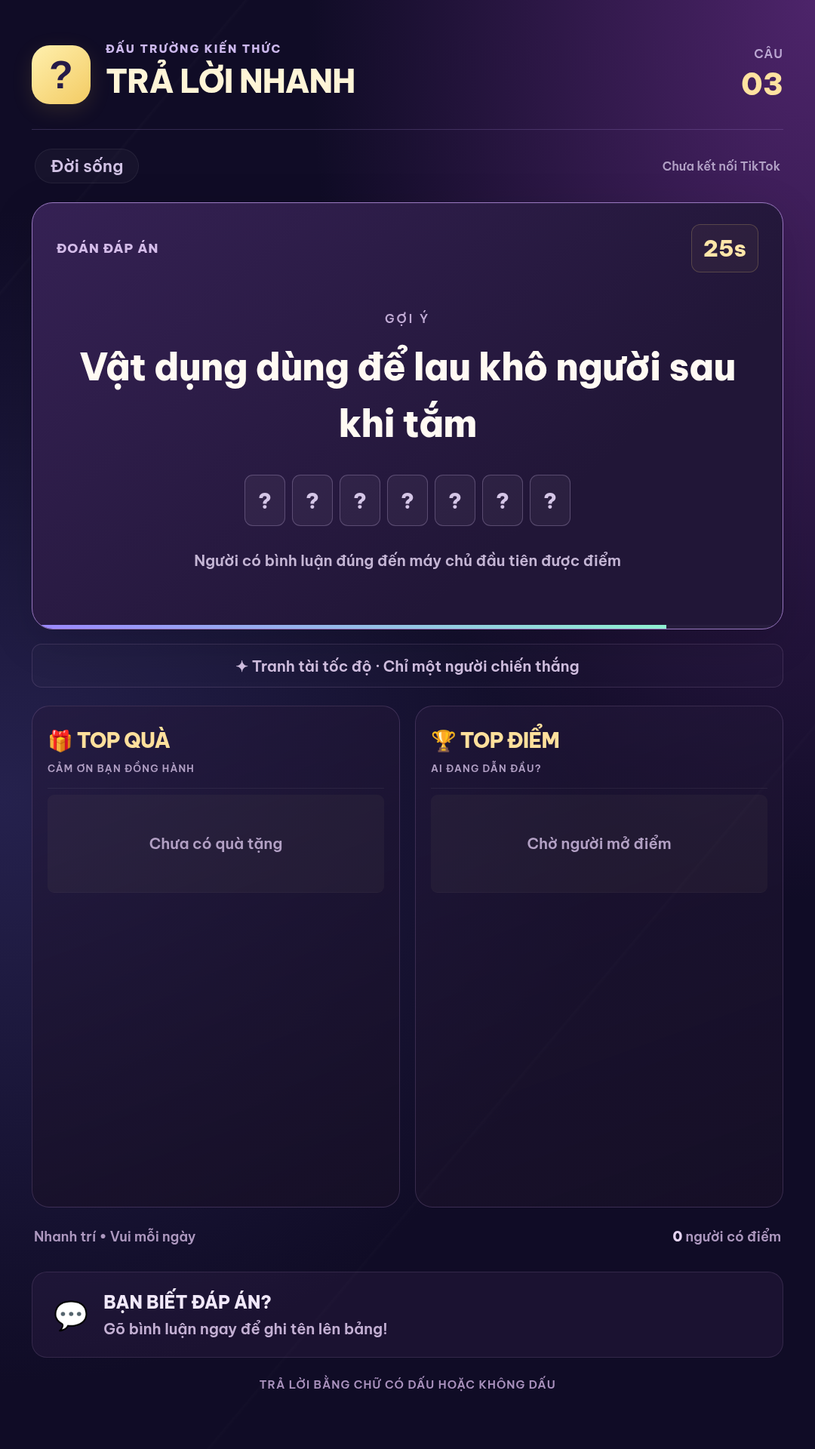
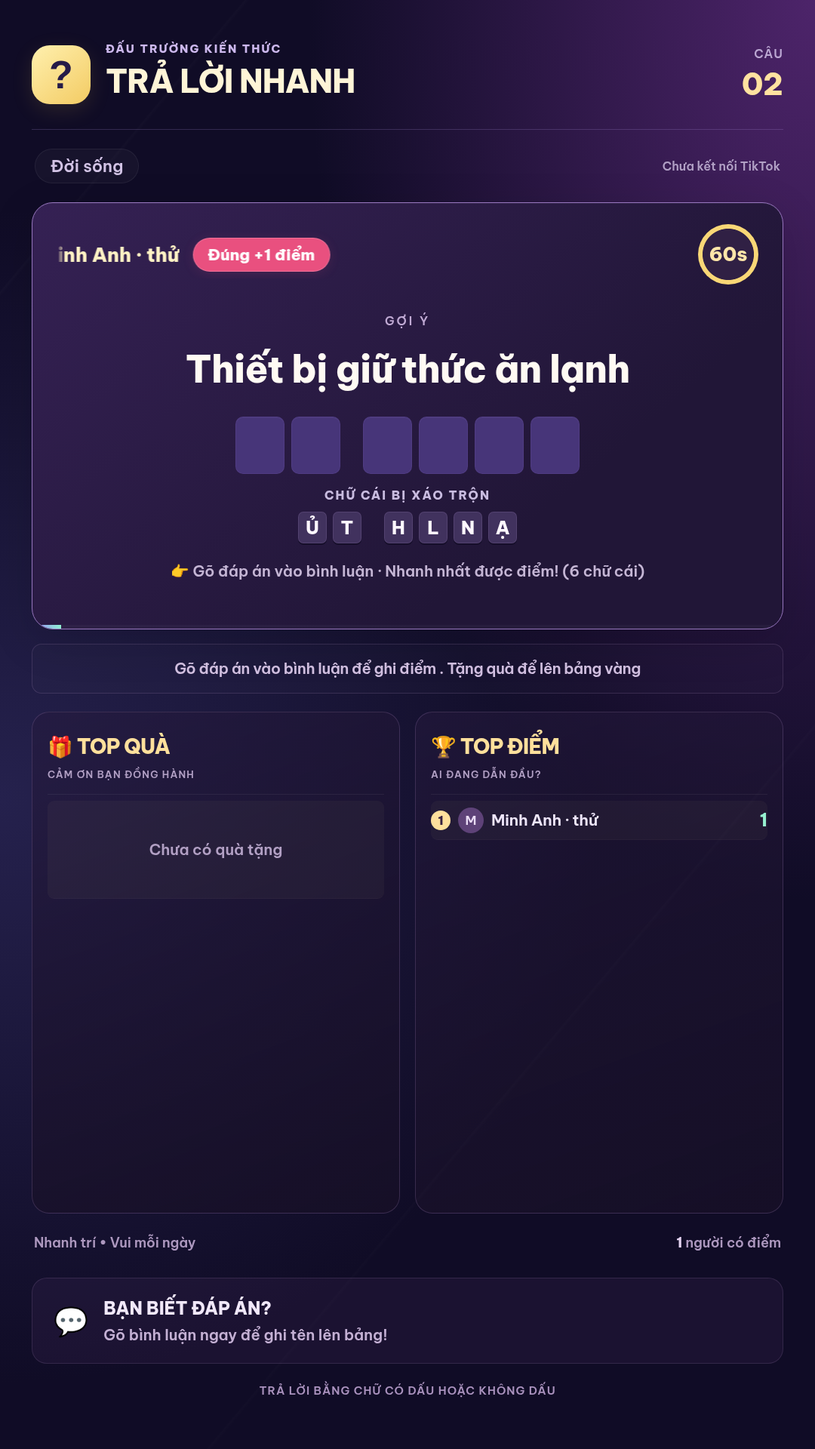
Add top leader marquee, countdown ring and Vietnamese winner announcements

diff --git a/public/index.html b/public/index.html
@@ -1,3 +1,3 @@
-<!doctype html><html lang="vi"><head><meta charset="utf-8"><meta name="viewport" content="width=device-width,initial-scale=1"><title>Studio · Trả lời nhanh LIVE</title><link rel="stylesheet" href="/style.css"></head><body class="studio"><aside class="sidebar"><div class="studio-brand"><span class="brand-mark">?</span><div>TRẢ LỜI NHANH<small>LIVE STUDIO</small></div></div><div class="nav-label">KHÔNG GIAN ĐIỀU KHIỂN</div><a href="#play" class="nav-item">◉ Điều khiển buổi chơi</a><a href="#bank" class="nav-item">▦ Thư viện câu hỏi</a><a href="#connect" class="nav-item">◎ Kết nối TikTok</a><a href="/overlay.html" target="_blank" class="nav-item">▣ Mở màn hình LIVE</a><div class="sidebar-bottom"><span class="local-dot"></span> Chạy trên máy của bạn<p>Top quà trái · Top điểm phải<br>Khổ dọc 1080 × 1920</p></div></aside><main class="studio-main"><header class="studio-header"><div><div class="eyebrow">SẴN SÀNG CHO MỘT BUỔI LIVE THẬT VUI</div><h1>Bảng điều khiển</h1><p>Chọn câu hỏi. Mở màn hình. Để khán giả tranh tài.</p></div><a class="button secondary" href="/overlay.html" target="_blank">Mở màn hình LIVE</a></header><div class="stats-grid"><div class="stat"><small>THƯ VIỆN CÂU HỎI</small><strong id="bankCount">—</strong><span id="categoryCount">Đang tải…</span></div><div class="stat"><small>CÂU ĐANG CHƠI</small><strong id="roundNumber">0</strong><span id="phaseText">Chưa bắt đầu</span></div><div class="stat"><small>BÌNH LUẬN ĐÃ NHẬN</small><strong id="comments">0</strong><span>Xử lý trực tiếp trên máy</span></div><div class="stat"><small>LƯỢT TRẢ LỜI ĐÚNG</small><strong id="accepted">0</strong><span id="players">0 người có điểm</span></div></div><div id="notice" class="notice" role="status">Đang kết nối máy chủ…</div><div class="workspace"><div class="panels"><section class="panel" id="play"><div class="panel-heading"><div><span class="eyebrow">ĐIỀU KHIỂN</span><h2>Nhịp chơi của bạn</h2></div><span class="badge" id="serverStatus">Đang kết nối</span></div><div class="current-question"><small id="currentCategory">CÂU HỎI HIỆN TẠI</small><h3 id="currentPrompt">Chọn bộ câu hỏi và bấm Bắt đầu</h3><div id="currentAnswer"></div></div><div class="actions"><button id="start" class="primary">Bắt đầu</button><button id="next" class="secondary">Câu tiếp</button><button id="pause" class="secondary">Tạm dừng</button><button id="reveal" class="secondary">Hiện đáp án</button><button id="stop" class="quiet">Dừng</button></div><form id="settingsForm"><div class="form-grid"><label>Tên chương trình<input name="title" maxlength="70" value="TRẢ LỜI NHANH"></label><label>Dòng phụ<input name="subtitle" maxlength="70" value="Nhanh trí • Vui mỗi ngày"></label><label>Bộ câu hỏi<select name="category" id="categorySelect"><option value="all">Tất cả bộ câu hỏi</option></select></label><label>Loại câu hỏi<select name="type" id="typeSelect"><option value="all">Tất cả loại</option></select></label><label>Thời gian mỗi câu (giây)<input name="duration" type="number" min="5" max="300" value="25"></label><label>Nghỉ giữa câu (giây)<input name="breakTime" type="number" min="1" max="20" value="3"></label><label>Cách tính điểm<select name="mode"><option value="first">Người đúng đầu tiên</option><option value="all">Mọi người đúng (chỉ thử ngoại tuyến)</option></select></label><label>Điểm mỗi câu<input name="points" type="number" min="1" max="100" value="1"></label></div><div class="form-bottom"><label class="check"><input name="auto" type="checkbox" checked>Tự chuyển câu</label><label class="check"><input name="sound" type="checkbox" checked>Âm báo đúng</label><button class="primary" type="submit">Lưu thiết lập</button></div><p class="muted">Chế độ, điểm và thời lượng mới áp dụng từ câu tiếp theo. Dấu tiếng Việt được nhận tự động.</p></form></section><section class="panel" id="connect"><div class="panel-heading"><div><span class="eyebrow">TƯƠNG TÁC THẬT</span><h2>Kết nối TikTok LIVE</h2></div><span id="tiktokStatus" class="badge">Chưa kết nối</span></div><p class="muted">Bạn tự phát LIVE trên TikTok trước, rồi nhập tên kênh. Không cần mật khẩu hoặc cookie.</p><div class="inline"><input id="username" placeholder="@tenkenh" autocomplete="off"><button id="connectBtn" class="primary">Kết nối</button><button id="disconnectBtn" class="secondary">Ngắt</button></div><div class="source-box"><small>NGUỒN LIÊN KẾT CHO LIVE STUDIO / OBS · 1080 × 1920</small><div class="inline"><code id="sourceUrl"></code><button id="copyUrl" class="secondary">Sao chép</button></div></div><p class="muted">Thư viện TikTok là bên thứ ba; kết nối có thể bị giới hạn khi TikTok thay đổi. Màn hình câu hỏi vẫn chạy khi mất kết nối.</p></section><section class="panel" id="bank"><div class="panel-heading"><div><span class="eyebrow">NỘI DUNG LUÔN MỚI</span><h2>Thư viện câu hỏi</h2></div><button id="exportBank" class="secondary">Tải bộ JSON</button></div><div id="bankChips" class="bank-chips"></div><p class="muted">Xáo trộn, dùng hết bộ mới lặp. Nhập bộ riêng tối đa 50.000 câu / 5 MB. File hợp lệ sẽ thay thư viện hiện tại, không xóa điểm.</p><label class="file-label">Chọn file JSON<input id="importBank" type="file" accept="application/json,.json"></label><details><summary>Xem cấu trúc câu hỏi</summary><pre>[{"id":"rieng-1","category":"Đố vui","type":"text",
+<!doctype html><html lang="vi"><head><meta charset="utf-8"><meta name="viewport" content="width=device-width,initial-scale=1"><title>Studio · Trả lời nhanh LIVE</title><link rel="stylesheet" href="/style.css"></head><body class="studio"><aside class="sidebar"><div class="studio-brand"><span class="brand-mark">?</span><div>TRẢ LỜI NHANH<small>LIVE STUDIO</small></div></div><div class="nav-label">KHÔNG GIAN ĐIỀU KHIỂN</div><a href="#play" class="nav-item">◉ Điều khiển buổi chơi</a><a href="#bank" class="nav-item">▦ Thư viện câu hỏi</a><a href="#connect" class="nav-item">◎ Kết nối TikTok</a><a href="/overlay.html" target="_blank" class="nav-item">▣ Mở màn hình LIVE</a><div class="sidebar-bottom"><span class="local-dot"></span> Chạy trên máy của bạn<p>Top quà trái · Top điểm phải<br>Khổ dọc 1080 × 1920</p></div></aside><main class="studio-main"><header class="studio-header"><div><div class="eyebrow">SẴN SÀNG CHO MỘT BUỔI LIVE THẬT VUI</div><h1>Bảng điều khiển</h1><p>Chọn câu hỏi. Mở màn hình. Để khán giả tranh tài.</p></div><a class="button secondary" href="/overlay.html" target="_blank">Mở màn hình LIVE</a></header><div class="stats-grid"><div class="stat"><small>THƯ VIỆN CÂU HỎI</small><strong id="bankCount">—</strong><span id="categoryCount">Đang tải…</span></div><div class="stat"><small>CÂU ĐANG CHƠI</small><strong id="roundNumber">0</strong><span id="phaseText">Chưa bắt đầu</span></div><div class="stat"><small>BÌNH LUẬN ĐÃ NHẬN</small><strong id="comments">0</strong><span>Xử lý trực tiếp trên máy</span></div><div class="stat"><small>LƯỢT TRẢ LỜI ĐÚNG</small><strong id="accepted">0</strong><span id="players">0 người có điểm</span></div></div><div id="notice" class="notice" role="status">Đang kết nối máy chủ…</div><div class="workspace"><div class="panels"><section class="panel" id="play"><div class="panel-heading"><div><span class="eyebrow">ĐIỀU KHIỂN</span><h2>Nhịp chơi của bạn</h2></div><span class="badge" id="serverStatus">Đang kết nối</span></div><div class="current-question"><small id="currentCategory">CÂU HỎI HIỆN TẠI</small><h3 id="currentPrompt">Chọn bộ câu hỏi và bấm Bắt đầu</h3><div id="currentAnswer"></div></div><div class="actions"><button id="start" class="primary">Bắt đầu</button><button id="next" class="secondary">Câu tiếp</button><button id="pause" class="secondary">Tạm dừng</button><button id="reveal" class="secondary">Hiện đáp án</button><button id="stop" class="quiet">Dừng</button></div><form id="settingsForm"><div class="form-grid"><label>Tên chương trình<input name="title" maxlength="70" value="TRẢ LỜI NHANH"></label><label>Dòng phụ<input name="subtitle" maxlength="70" value="Nhanh trí • Vui mỗi ngày"></label><label>Bộ câu hỏi<select name="category" id="categorySelect"><option value="all">Tất cả bộ câu hỏi</option></select></label><label>Loại câu hỏi<select name="type" id="typeSelect"><option value="all">Tất cả loại</option></select></label><label>Thời gian mỗi câu (giây)<input name="duration" type="number" min="5" max="300" value="25"></label><label>Nghỉ giữa câu (giây)<input name="breakTime" type="number" min="1" max="20" value="3"></label><label>Cách tính điểm<select name="mode"><option value="first">Người đúng đầu tiên</option><option value="all">Mọi người đúng (chỉ thử ngoại tuyến)</option></select></label><label>Điểm mỗi câu<input name="points" type="number" min="1" max="100" value="1"></label></div><div class="form-bottom"><label class="check"><input name="auto" type="checkbox" checked>Tự chuyển câu</label><label class="check"><input name="sound" type="checkbox" checked>Âm báo đúng</label><label class="check"><input name="speech" type="checkbox" checked>Đọc đáp án và người thắng</label><button class="primary" type="submit">Lưu thiết lập</button></div><p class="muted">Chế độ, điểm và thời lượng mới áp dụng từ câu tiếp theo. Dấu tiếng Việt được nhận tự động.</p></form></section><section class="panel" id="connect"><div class="panel-heading"><div><span class="eyebrow">TƯƠNG TÁC THẬT</span><h2>Kết nối TikTok LIVE</h2></div><span id="tiktokStatus" class="badge">Chưa kết nối</span></div><p class="muted">Bạn tự phát LIVE trên TikTok trước, rồi nhập tên kênh. Không cần mật khẩu hoặc cookie.</p><div class="inline"><input id="username" placeholder="@tenkenh" autocomplete="off"><button id="connectBtn" class="primary">Kết nối</button><button id="disconnectBtn" class="secondary">Ngắt</button></div><div class="source-box"><small>NGUỒN LIÊN KẾT CHO LIVE STUDIO / OBS · 1080 × 1920</small><div class="inline"><code id="sourceUrl"></code><button id="copyUrl" class="secondary">Sao chép</button></div></div><p class="muted">Thư viện TikTok là bên thứ ba; kết nối có thể bị giới hạn khi TikTok thay đổi. Màn hình câu hỏi vẫn chạy khi mất kết nối.</p></section><section class="panel" id="bank"><div class="panel-heading"><div><span class="eyebrow">NỘI DUNG LUÔN MỚI</span><h2>Thư viện câu hỏi</h2></div><button id="exportBank" class="secondary">Tải bộ JSON</button></div><div id="bankChips" class="bank-chips"></div><p class="muted">Xáo trộn, dùng hết bộ mới lặp. Nhập bộ riêng tối đa 50.000 câu / 5 MB. File hợp lệ sẽ thay thư viện hiện tại, không xóa điểm.</p><label class="file-label">Chọn file JSON<input id="importBank" type="file" accept="application/json,.json"></label><details><summary>Xem cấu trúc câu hỏi</summary><pre>[{"id":"rieng-1","category":"Đố vui","type":"text",
 "prompt":"Đồ vật dùng để ngồi?","answer":"Cái ghế",
 "aliases":["ghế"]}]</pre><p class="muted">Loại: text, scramble, choice, math, riddle, emoji. Trắc nghiệm thêm options gồm 4 đáp án, trong đó có answer.</p></details></section><section class="panel demo-panel"><div class="panel-heading"><div><span class="eyebrow">CHỈ DÙNG KHI CHƯA KẾT NỐI LIVE</span><h2>Thử bình luận & quà</h2></div></div><div class="form-grid"><label>Tên người thử<input id="demoName" value="Minh Anh" maxlength="60"></label><label>Câu trả lời<input id="demoAnswer" placeholder="Nhập đáp án"></label></div><div class="actions"><button id="sendDemo" class="secondary">Gửi thử đáp án</button><button id="correctDemo" class="primary">Thử đáp án đúng</button><button id="giftDemo" class="secondary">Thử quà 10 xu</button></div><p class="muted">Điểm của người thử không lưu khi khởi động lại. Không thể thử khi đang kết nối LIVE thật.</p><div class="danger-zone"><button id="resetBtn" class="danger">Xóa bảng điểm</button><span class="muted">Cần gõ XÓA để xác nhận.</span></div></section></div><aside class="preview-column"><div class="preview-heading"><span>XEM TRƯỚC TRỰC TIẾP</span><span>9:16</span></div><div class="preview-frame"><iframe title="Màn hình LIVE xem trước" src="/overlay.html?audio=0"></iframe></div><p class="muted">Bản xem trước tắt âm thanh. Mở màn hình LIVE riêng để bật tiếng.</p></aside></div></main><script src="/control.js" type="module"></script></body></html>

diff --git a/public/overlay.js b/public/overlay.js
@@ -1,9 +1,12 @@
+import {WinnerSpeaker,winnerText} from './speech.js';
 const $=id=>document.getElementById(id), labels={text:'ĐOÁN ĐÁP ÁN',scramble:'SẮP XẾP CHỮ',choice:'CHỌN A · B · C · D',math:'TÍNH NHANH',riddle:'ĐỐ VUI',emoji:'NHÌN EMOJI ĐOÁN TỪ'};
 let state=null,offset=0,roundKey='',boardKey='',lastEvent=0,retry=500,audio=null,received=false;
 function fit(){const scale=Math.min(innerWidth/1080,innerHeight/1920);$('stage').style.transform=`scale(${scale})`;$('stage').style.left=`${Math.max(0,(innerWidth-1080*scale)/2)}px`;}
 addEventListener('resize',fit);fit();
 const mute=new URLSearchParams(location.search).get('audio')==='0';
-if(!mute){const b=document.createElement('button');b.className='audio-enable';b.textContent='Bật âm báo';b.style.cssText='position:absolute;bottom:16px;right:42px;background:#33234b;color:#d8c4ed;z-index:3';$('stage').append(b);b.onclick=async()=>{try{audio=new AudioContext();await audio.resume();b.remove();}catch{}};}
+const speaker=new WinnerSpeaker({muted:mute,status:text=>{$('voiceStatus').textContent=text;}});
+let leaderKey='';
+if(!mute){const b=document.createElement('button');b.className='audio-enable';b.textContent='Bật âm thanh & giọng đọc';b.style.cssText='position:absolute;bottom:16px;right:42px;background:#33234b;color:#d8c4ed;z-index:3';$('stage').append(b);b.onclick=async()=>{speaker.enable();try{audio=new AudioContext();await audio.resume();}catch{}b.remove();};}
 function ding(){if(!audio||!state?.settings.sound||mute)return;const at=audio.currentTime;for(const [i,f]of [660,880,1100].entries()){const o=audio.createOscillator(),g=audio.createGain();o.type='sine';o.frequency.value=f;g.gain.setValueAtTime(0,at+i*.09);g.gain.linearRampToValueAtTime(.08,at+i*.09+.01);g.gain.exponentialRampToValueAtTime(.001,at+i*.09+.25);o.connect(g);g.connect(audio.destination);o.start(at+i*.09);o.stop(at+i*.09+.26);}}
 function portrait(parent,p,cls='avatar'){const a=document.createElement('span');a.className=cls;if(p?.avatar&&/^https:\/\//.test(p.avatar)){const img=document.createElement('img');img.src=p.avatar;img.referrerPolicy='no-referrer';img.onerror=()=>{img.remove();a.textContent=p.name?.[0]||'★';};a.append(img);}else a.textContent=p?.name?.[0]||'★';parent.append(a);return a;}
 function board(id,rows,key){const out=document.createDocumentFragment();if(!rows.length){const li=document.createElement('li');li.className='empty-board';li.textContent=key==='score'?'Chờ người mở điểm':'Chưa có quà tặng';out.append(li);}rows.forEach((p,i)=>{const li=document.createElement('li'),r=document.createElement('span'),n=document.createElement('span'),v=document.createElement('b');r.className='rank';r.textContent=i+1;li.append(r);portrait(li,p);n.className='player-name';n.textContent=p.name;v.className='player-value';v.textContent=Intl.NumberFormat('vi-VN').format(p[key]);li.append(n,v);out.append(li);});$(id).replaceChildren(out);}
@@ -33,9 +36,16 @@ function question(){const q=state.question;const key=JSON.stringify([state.round
 function render(s){const firstRender=!received;received=true;state=s;offset=s.serverTime-Date.now();$('liveTitle').textContent=s.settings.title;$('liveSubtitle').textContent=s.settings.subtitle;$('round').textContent=String(s.round).padStart(2,'0');$('category').textContent=s.question?.category||'Sẵn sàng chơi';$('playerCount').textContent=s.stats.players;
  $('connection').textContent=s.live.status==='connected'?`LIVE @${s.live.username}`:s.live.status==='connecting'?'Đang kết nối TikTok':'Chưa kết nối TikTok';question();
  const bk=JSON.stringify([s.topScores,s.topGifts]);if(bk!==boardKey){boardKey=bk;board('gifts',s.topGifts,'diamonds');board('scores',s.topScores,'score');}
- if(s.event&&s.event.id!==lastEvent){const initial=firstRender;lastEvent=s.event.id;$('ticker').textContent=`✓ ${s.event.name} trả lời đúng · +${s.event.points} điểm`;if(!initial){ding();celebrate();}}
- else if(!s.event)$('ticker').textContent=s.phase==='question'?`✦ ${(s.roundMode||s.settings.mode)==='all'?'Cùng trả lời · Mỗi người một lượt ghi điểm':'Tranh tài tốc độ · Chỉ một người chiến thắng'}`:'✦ Mỗi câu hỏi là một cơ hội tỏa sáng';
+ const leader=s.topScores[0],lk=leader?`${leader.id}:${leader.score}:${s.settings.points}`:'';
+ if(lk!==leaderKey){leaderKey=lk;$('leaderName').textContent=leader?leader.name:'';$('leaderBadge').textContent=`Đúng +${s.settings.points} điểm`;$('leaderBadge').classList.toggle('hidden',!leader);}
+ $('leaderTrack').classList.toggle('has-leader',!!leader);$('typeLabel').classList.toggle('hidden',!!leader);$('leaderTrack').classList.toggle('marquee-paused',s.paused||s.phase==='idle');
+ $('ticker').textContent='Gõ đáp án vào bình luận để ghi điểm . Tặng quà để lên bảng vàng';
+ if(s.event&&s.event.id!==lastEvent){lastEvent=s.event.id;if(!firstRender){ding();celebrate();}}
+ const w=s.winners[0];
+ if(s.phase==='reveal'&&w&&s.settings.speech){const key=`${s.round}:${w.id}`;if(firstRender)speaker.remember(key);else speaker.speak({key,round:s.round,text:winnerText(s.question.answer,w.name)});}
+ if(!s.settings.speech||s.phase==='idle'){speaker.stop();$('voiceStatus').textContent='';}
+
 }
 function connect(){const ws=new WebSocket(`${location.protocol==='https:'?'wss':'ws'}://${location.host}/ws`);ws.onopen=()=>retry=500;ws.onmessage=e=>{try{const s=JSON.parse(e.data);if(s.t==='state')render(s);}catch{}};ws.onclose=()=>{$('connection').textContent='Mất máy chủ · đang nối lại';setTimeout(connect,retry);retry=Math.min(10000,retry*1.7);};}connect();
-setInterval(()=>{if(!state)return;const now=Date.now()+offset;let left=0;if(state.phase==='question')left=state.paused?state.remaining:state.endsAt-now;else if(state.phase==='reveal'&&state.settings.auto)left=state.nextAt-now;$('timer').textContent=state.phase==='idle'?'—':state.paused?'Ⅱ':state.phase==='reveal'&&!state.settings.auto?'✓':`${Math.max(0,Math.ceil(left/1000))}s`;$('timeFill').style.width=`${Math.max(0,Math.min(100,left/((state.phase==='reveal'?state.settings.breakTime:state.settings.duration)*1000)*100))}%`;},100);
+setInterval(()=>{if(!state)return;const now=Date.now()+offset;let left=0;if(state.phase==='question')left=state.paused?state.remaining:state.endsAt-now;else if(state.phase==='reveal'&&state.settings.auto)left=state.nextAt-now;$('timer').textContent=state.phase==='idle'?'—':state.paused?'Ⅱ':state.phase==='reveal'&&!state.settings.auto?'✓':`${Math.max(0,Math.ceil(left/1000))}s`;$('nextQuestion').textContent=state.phase==='reveal'?(state.settings.auto?`Chuẩn bị câu mới trong ${Math.max(0,Math.ceil(left/1000))} giây…`:'Sẵn sàng · Chờ người điều khiển chuyển câu'):'';const fraction=Math.max(0,Math.min(1,left/((state.phase==='reveal'?state.settings.breakTime:state.settings.duration)*1000)));$('timer').style.setProperty('--progress',`${fraction*100}%`);$('timeFill').style.width=`${Math.max(0,Math.min(100,left/((state.phase==='reveal'?state.settings.breakTime:state.settings.duration)*1000)*100))}%`;},100);
 let animation=0;function celebrate(){if(animation||matchMedia('(prefers-reduced-motion: reduce)').matches)return;const c=$('confetti');c.width=1080;c.height=1920;const ctx=c.getContext('2d'),pieces=Array.from({length:75},()=>({x:Math.random()*1080,y:-Math.random()*500,v:5+Math.random()*7,color:['#f9d776','#9c83ff','#64ebbc','#ed5b95'][Math.floor(Math.random()*4)]}));let frames=0;function frame(){ctx.clearRect(0,0,1080,1920);for(const p of pieces){p.y+=p.v;p.x+=Math.sin(p.y/60);ctx.fillStyle=p.color;ctx.fillRect(p.x,p.y,7,13);}if(++frames<150)animation=requestAnimationFrame(frame);else{animation=0;ctx.clearRect(0,0,1080,1920);}}animation=requestAnimationFrame(frame);}

diff --git a/public/overlay.html b/public/overlay.html
@@ -1,1 +1,1 @@
-<!doctype html><html lang="vi"><head><meta charset="utf-8"><meta name="viewport" content="width=device-width,initial-scale=1"><title>Trả lời nhanh · LIVE</title><link rel="stylesheet" href="/style.css"></head><body class="overlay-page"><main id="stage" class="stage"><header class="live-header"><div class="brand-mark">?</div><div><div class="eyebrow">ĐẤU TRƯỜNG KIẾN THỨC</div><h1 id="liveTitle">TRẢ LỜI NHANH</h1></div><div class="round-label">CÂU <strong id="round">00</strong></div></header><div class="live-meta"><span id="category">Sẵn sàng chơi</span><span id="connection">Đang kết nối…</span></div><section class="question-card" id="questionCard"><div class="card-top"><span class="type-label" id="typeLabel">AI SẼ NHANH NHẤT?</span><span class="timer" id="timer">—</span></div><div id="questionView"><div class="question-kicker">GỢI Ý</div><h2 id="prompt">Sẵn sàng thử tài?</h2><div id="answerSlots" class="answer-slots" aria-label="Các ô đáp án trống"></div><div id="scrambleLabel" class="scramble-label hidden">CHỮ CÁI BỊ XÁO TRỘN</div><div id="letters" class="letters"></div><div id="options" class="options"></div><p id="answerHelp" class="answer-help">Bình luận ngay để ghi điểm</p></div><div id="winnerView" class="hidden"><div class="winner-badge">✦ NHANH NHẤT CÂU NÀY ✦</div><div id="winnerAvatar" class="winner-avatar">★</div><h2 id="winnerName"></h2><div class="solution">Đáp án: <strong id="solution"></strong></div><div class="score-chip" id="scoreChip"></div><p id="explanation"></p></div><div class="time-track"><div id="timeFill"></div></div></section><div id="ticker" class="ticker">✦ Mỗi câu hỏi là một cơ hội tỏa sáng</div><section class="boards"><article class="board gifts-board"><div class="board-title"><span>🎁 TOP QUÀ</span><small>CẢM ƠN BẠN ĐỒNG HÀNH</small></div><ol id="gifts"><li class="empty-board">Chưa có quà tặng</li></ol></article><article class="board scores-board"><div class="board-title"><span>🏆 TOP ĐIỂM</span><small>AI ĐANG DẪN ĐẦU?</small></div><ol id="scores"><li class="empty-board">Chờ người mở điểm</li></ol></article></section><footer class="live-footer"><span id="liveSubtitle">Nhanh trí • Vui mỗi ngày</span><span><b id="playerCount">0</b> người có điểm</span></footer><div class="join-note"><span class="chat-icon">💬</span><div><b>BẠN BIẾT ĐÁP ÁN?</b><p>Gõ bình luận ngay để ghi tên lên bảng!</p></div></div><div class="bottom-caption">TRẢ LỜI BẰNG CHỮ CÓ DẤU HOẶC KHÔNG DẤU</div><canvas id="confetti"></canvas></main><script src="/overlay.js" type="module"></script></body></html>
+<!doctype html><html lang="vi"><head><meta charset="utf-8"><meta name="viewport" content="width=device-width,initial-scale=1"><title>Trả lời nhanh · LIVE</title><link rel="stylesheet" href="/style.css"></head><body class="overlay-page"><main id="stage" class="stage"><header class="live-header"><div class="brand-mark">?</div><div><div class="eyebrow">ĐẤU TRƯỜNG KIẾN THỨC</div><h1 id="liveTitle">TRẢ LỜI NHANH</h1></div><div class="round-label">CÂU <strong id="round">00</strong></div></header><div class="live-meta"><span id="category">Sẵn sàng chơi</span><span id="connection">Đang kết nối…</span></div><section class="question-card" id="questionCard"><div class="card-top"><div class="leader-marquee"><div class="leader-track" id="leaderTrack"><span class="type-label" id="typeLabel">AI SẼ NHANH NHẤT?</span><span id="leaderName"></span><span id="leaderBadge" class="leader-badge hidden">Đúng +1 điểm</span></div></div><span class="timer" id="timer">—</span></div><div id="questionView"><div class="question-kicker">GỢI Ý</div><h2 id="prompt">Sẵn sàng thử tài?</h2><div id="answerSlots" class="answer-slots" aria-label="Các ô đáp án trống"></div><div id="scrambleLabel" class="scramble-label hidden">CHỮ CÁI BỊ XÁO TRỘN</div><div id="letters" class="letters"></div><div id="options" class="options"></div><p id="answerHelp" class="answer-help">Bình luận ngay để ghi điểm</p></div><div id="winnerView" class="hidden"><div class="winner-badge">✦ NHANH NHẤT CÂU NÀY ✦</div><div id="winnerAvatar" class="winner-avatar">★</div><h2 id="winnerName"></h2><div class="solution">Đáp án: <strong id="solution"></strong></div><div class="score-chip" id="scoreChip"></div><p id="explanation"></p><p id="nextQuestion" class="next-question"></p><p id="voiceStatus" class="voice-status" aria-live="polite"></p></div><div class="time-track"><div id="timeFill"></div></div></section><div id="ticker" class="ticker">Gõ đáp án vào bình luận để ghi điểm . Tặng quà để lên bảng vàng</div><section class="boards"><article class="board gifts-board"><div class="board-title"><span>🎁 TOP QUÀ</span><small>CẢM ƠN BẠN ĐỒNG HÀNH</small></div><ol id="gifts"><li class="empty-board">Chưa có quà tặng</li></ol></article><article class="board scores-board"><div class="board-title"><span>🏆 TOP ĐIỂM</span><small>AI ĐANG DẪN ĐẦU?</small></div><ol id="scores"><li class="empty-board">Chờ người mở điểm</li></ol></article></section><footer class="live-footer"><span id="liveSubtitle">Nhanh trí • Vui mỗi ngày</span><span><b id="playerCount">0</b> người có điểm</span></footer><div class="join-note"><span class="chat-icon">💬</span><div><b>BẠN BIẾT ĐÁP ÁN?</b><p>Gõ bình luận ngay để ghi tên lên bảng!</p></div></div><div class="bottom-caption">TRẢ LỜI BẰNG CHỮ CÓ DẤU HOẶC KHÔNG DẤU</div><canvas id="confetti"></canvas></main><script src="/overlay.js" type="module"></script></body></html>

diff --git a/public/speech.js b/public/speech.js
@@ -1,0 +1,19 @@
+export function winnerText(answer,name){const tidy=(s,n)=>String(s||'').normalize('NFC').replace(/[^\p{L}\p{N}\s.,-]/gu,' ').replace(/\s+/g,' ').trim().slice(0,n);return `Đáp án là ${tidy(answer,100)}. ${tidy(name,45)||'Người chơi'} trả lời đúng.`;}
+export class WinnerSpeaker {
+ constructor({synth=globalThis.speechSynthesis,Utterance=globalThis.SpeechSynthesisUtterance,fetcher=globalThis.fetch,makeAudio=()=>new Audio(),urlApi=globalThis.URL,status=()=>{},muted=false}={}){Object.assign(this,{synth,Utterance,fetcher,makeAudio,urlApi,status,muted});this.enabled=false;this.seen=new Set();this.seq=0;}
+ remember(key){this.seen.add(key);if(this.seen.size>50)this.seen.delete(this.seen.values().next().value);}
+ enable(){this.enabled=true;this.synth?.getVoices();}
+ stop(){this.seq++;this.abort?.abort();try{this.synth?.cancel();this.audio?.pause();}catch{}if(this.objectUrl)this.urlApi.revokeObjectURL(this.objectUrl);this.objectUrl=null;this.audio=null;}
+ async speak({key,text,round}){
+  if(this.muted||!this.enabled||this.seen.has(key))return;this.remember(key);this.stop();const seq=this.seq;
+  const voice=this.synth?.getVoices().find(v=>/^vi(?:-|_)/i.test(v.lang));
+  if(voice&&this.Utterance){const line=new this.Utterance(text);line.lang='vi-VN';line.voice=voice;line.rate=1.1;line.onend=()=>{if(seq===this.seq)this.status('');};line.onerror=()=>{if(seq===this.seq)this.remote(round,seq);};this.status('Đang đọc đáp án và người thắng…');try{this.synth.speak(line);}catch{await this.remote(round,seq);}return;}
+  await this.remote(round,seq);
+ }
+ async remote(round,seq){
+  const controller=new AbortController();this.abort=controller;const timer=setTimeout(()=>controller.abort(),5500);this.status('Đang chuẩn bị giọng đọc tiếng Việt…');
+  try{const r=await this.fetcher(`/api/winner-voice?round=${encodeURIComponent(round)}`,{signal:controller.signal});if(!r.ok)throw Error('Voice unavailable');const blob=await r.blob();if(seq!==this.seq)return;this.objectUrl=this.urlApi.createObjectURL(blob);const a=this.makeAudio();this.audio=a;a.src=this.objectUrl;a.onended=()=>{if(seq===this.seq){this.status('');this.urlApi.revokeObjectURL(this.objectUrl);this.objectUrl=null;}};a.onerror=()=>{if(seq===this.seq)this.status('Không phát được giọng đọc. Kiểm tra âm thanh nguồn LIVE.');};await a.play();if(seq===this.seq)this.status('Đang đọc đáp án và người thắng…');}
+  catch(e){if(seq===this.seq&&e.name!=='AbortError')this.status('Giọng đọc chưa sẵn sàng. Kiểm tra mạng hoặc cài giọng tiếng Việt trên máy.');else if(seq===this.seq)this.status('Giọng đọc phản hồi chậm. Kiểm tra kết nối mạng.');}
+  finally{clearTimeout(timer);}
+ }
+}

diff --git a/public/control.js b/public/control.js
@@ -11,7 +11,7 @@ function connect(){ws=new WebSocket(`${location.protocol==='https:'?'wss':'ws'}:
  if(m.t==='error')notice(m.error,true);if(m.t==='ok'){if(m.cmd==='settings')ackSettings=true;notice(m.cmd==='settings'?'Đã lưu thiết lập.':'Đã thực hiện.');}};}
 connect();$('sourceUrl').textContent=location.origin+'/overlay.html';$('copyUrl').onclick=async()=>{try{await navigator.clipboard.writeText($('sourceUrl').textContent);notice('Đã sao chép liên kết màn hình LIVE.');}catch{notice('Hãy sao chép liên kết hiển thị bên trên.');}};
 for(const cmd of ['start','next','pause','reveal','stop'])$(cmd).onclick=()=>send(cmd);
-form.onsubmit=e=>{e.preventDefault();const data=Object.fromEntries(new FormData(form));data.auto=form.elements.auto.checked;data.sound=form.elements.sound.checked;send('settings',{settings:data});};
+form.onsubmit=e=>{e.preventDefault();const data=Object.fromEntries(new FormData(form));data.auto=form.elements.auto.checked;data.sound=form.elements.sound.checked;data.speech=form.elements.speech.checked;send('settings',{settings:data});};
 $('connectBtn').onclick=()=>send('connect',{username:$('username').value});$('disconnectBtn').onclick=()=>send('disconnect');
 $('sendDemo').onclick=()=>send('simulate',{name:$('demoName').value,text:$('demoAnswer').value,round:state?.round});$('demoAnswer').onkeydown=e=>{if(e.key==='Enter')$('sendDemo').click();};$('correctDemo').onclick=()=>send('demoCorrect',{name:$('demoName').value,round:state?.round});$('giftDemo').onclick=()=>send('demoGift',{name:$('demoName').value,diamonds:10});
 $('resetBtn').onclick=()=>{const confirm=prompt('Xóa toàn bộ điểm và Top quà? Gõ XÓA để xác nhận.');if(confirm==='XÓA')send('reset',{confirm});};

diff --git a/public/style.css b/public/style.css
@@ -59,3 +59,15 @@
 .scrambled-word{display:inline-flex;flex-wrap:wrap;justify-content:center;gap:8px;max-width:100%}
 #letters.compact-letters{column-gap:22px}
 .compact-letters .scrambled-word{gap:6px}
+.leader-marquee{flex:1;min-width:0;overflow:hidden;margin-right:22px;text-align:left;mask-image:linear-gradient(90deg,transparent,#000 12px,#000 calc(100% - 12px),transparent)}
+.leader-track{display:inline-flex;align-items:center;gap:18px;min-height:64px;white-space:nowrap;padding:0 12px}
+.leader-track.has-leader{animation:leader-scroll 9s linear infinite;min-width:max-content}
+#leaderName{font-size:26px;font-weight:800;color:#fff2c5;max-width:700px;overflow:hidden;text-overflow:ellipsis}
+.leader-badge{display:inline-block;color:#fff;background:#e9507f;border:1px solid #ffacc45c;border-radius:24px;padding:8px 19px;font-size:21px;font-weight:800;box-shadow:0 3px 16px #e9507f22}
+.marquee-paused{animation-play-state:paused!important}
+@keyframes leader-scroll{0%,15%{transform:translateX(0)}85%,100%{transform:translateX(-35%)}}
+.timer{width:80px;height:80px;min-width:80px;padding:0;display:grid;place-items:center;border:0;border-radius:50%;font-size:26px;background:radial-gradient(closest-side,#302044 84%,transparent 86%),conic-gradient(#f9d776 var(--progress,100%),#69517f50 0);font-variant-numeric:tabular-nums}
+.next-question{margin:12px 0 0;color:#f5d99c;font-size:21px;line-height:1.5;font-weight:800}
+.voice-status{margin:6px 0 0;color:#b8a5cc;font-size:15px;line-height:1.5}
+#ticker{font-size:20px;letter-spacing:-.4px;text-align:center;white-space:normal;line-height:1.6;height:auto;min-height:66px;padding:12px 18px}
+@media(prefers-reduced-motion:reduce){.leader-track.has-leader{animation:none}}

diff --git a/README.md b/README.md
@@ -31,6 +31,17 @@ Hai hàng tách biệt: không đặt chữ vào ô đáp án trước khi chố
 - Dùng thời gian sự kiện (khi TikTok cung cấp) để bỏ bình luận từ câu cũ; với dấu thời gian chỉ chính xác tới giây, không phân biệt được hai sự kiện trong cùng giây. Không đoán lại thứ tự từ dấu thời gian thô.
 - **Nhanh nhất = đáp án đúng hợp lệ đến máy chủ đầu tiên.** Không bảo đảm trùng thứ tự bình luận trên mọi điện thoại hay loại bỏ độ trễ mạng TikTok.
 
+## Tên Top 1, đếm ngược và giọng đọc
+
+- Dòng trên khung hỏi hiện tên người Top điểm số 1 và nhãn đỏ **Đúng +N điểm** (N là điểm mỗi câu); tên chạy ngang, vòng tròn hiển thị thời gian còn lại.
+- Dòng hướng dẫn: **Gõ đáp án vào bình luận để ghi điểm . Tặng quà để lên bảng vàng**.
+- Khi có người nhanh nhất, hiện kết quả ngay và đọc **“Đáp án là … [Tên người chơi] trả lời đúng.”**, một lần cho mỗi câu. Cùng lúc đếm ngược **Chuẩn bị câu mới…**. Không chờ âm thanh mới hiện kết quả.
+- Trong thiết lập có **Đọc đáp án và người thắng**, bật sẵn. Mở cửa sổ LIVE và bấm **Bật âm thanh & giọng đọc** một lần. Bản xem trước `?audio=0` luôn im lặng.
+- Ưu tiên giọng tiếng Việt của trình duyệt/máy. Nếu không có thì thử giọng Microsoft Edge trực tuyến qua server, cần Internet; lỗi hoặc quá thời gian sẽ hiện thông báo, không làm đứng trò chơi.
+- Nếu giọng đọc không có sẵn, kiểm tra giọng tiếng Việt trong hệ điều hành/trình duyệt và kết nối mạng. Chỉ mở một nguồn có âm thanh để tránh đọc đôi.
+- Đếm ngược tự chuyển vẫn theo **Nghỉ giữa câu**. Đặt khoảng **5–8 giây** nếu muốn chừa đủ thời gian đọc tên dài; không đợi xác nhận đọc xong để chuyển câu. Kết quả mới ngắt giọng cũ, không tích hàng đợi.
+- Nếu đã cài bản trước: dừng ứng dụng, cập nhật repo, chạy **npm ci** để bổ sung thư viện giọng đọc rồi mở `start.bat` lại. Giữ `data/runtime` để không mất điểm.
+
 ## Cài trên Windows
 
 1. Cài **Node.js 20 trở lên** tại https://nodejs.org/ (bản LTS).

diff --git a/docs/PHAN-TICH.md b/docs/PHAN-TICH.md
@@ -51,3 +51,9 @@ Kiểm tra mã cũ phát hiện cửa sổ chặn bình luận 100 ms có thể 
 Thêm kiểm tra sửa đáp án ngay, sự kiện cũ sang câu mới (timestamp millisecond/second), dọn người thử khi kết nối, khóa chế độ và callback thông báo đồng bộ khi đúng. Sự kiện TikTok không có timestamp hoặc timestamp chỉ đến giây không đủ để chứng minh thứ tự gửi tuyệt đối; chương trình dùng thứ tự nhận tại máy chủ và không cố chờ để xếp lại.
 
 Font Be Vietnam Pro đặt cục bộ (600 và 800) với giấy phép OFL. Không dùng font mạng cho overlay; tên người thắng xuất hiện trước khi avatar tải xong.
+
+## Cập nhật dòng Top 1 và đọc kết quả
+
+Thêm marquee tên Top điểm số 1 kèm nhãn đỏ, vòng thời gian và dòng hướng dẫn mới. Màn kết quả có đếm ngược chuẩn bị câu tiếp. Thêm giọng tiếng Việt qua SpeechSynthesis, dự phòng msedge-tts với giới hạn thời gian, dung lượng và số tác vụ đồng thời. Bản xem trước luôn tắt giọng, không phát lặp theo snapshot hoặc kết nối lại.
+
+Kiểm thử trình duyệt dùng giọng giả để xác nhận chính xác đáp án/tên, phát một lần, chuyển câu và preview im lặng. Phép thử trực tuyến trong môi trường phát triển đã gặp timeout; không coi là đã xác minh chất lượng âm thanh thực trên Windows/OBS. Khả năng phát thật cần giọng Việt của máy hoặc dịch vụ trực tuyến đáp ứng.
